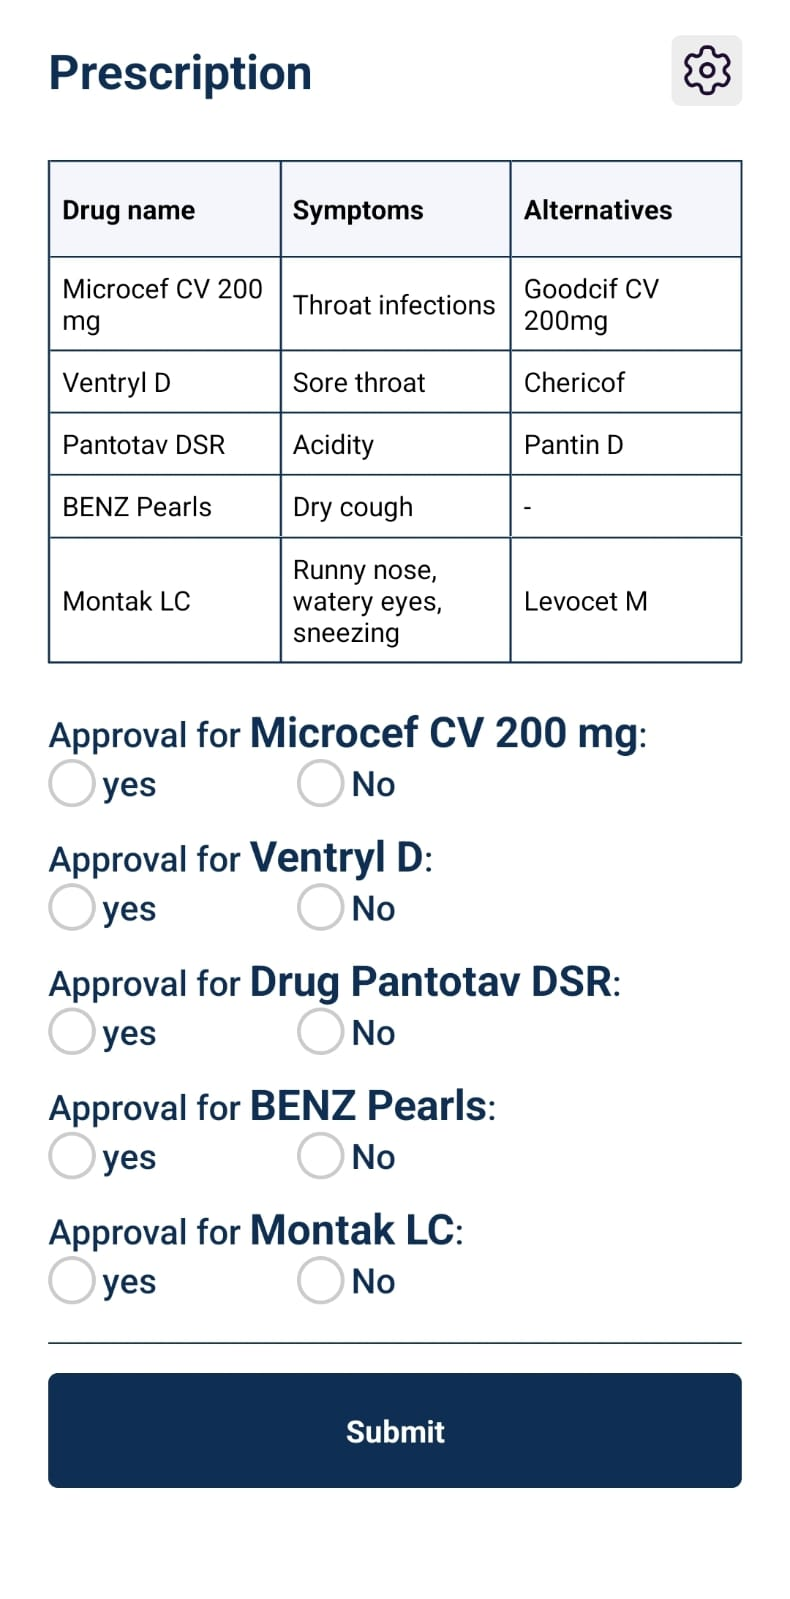
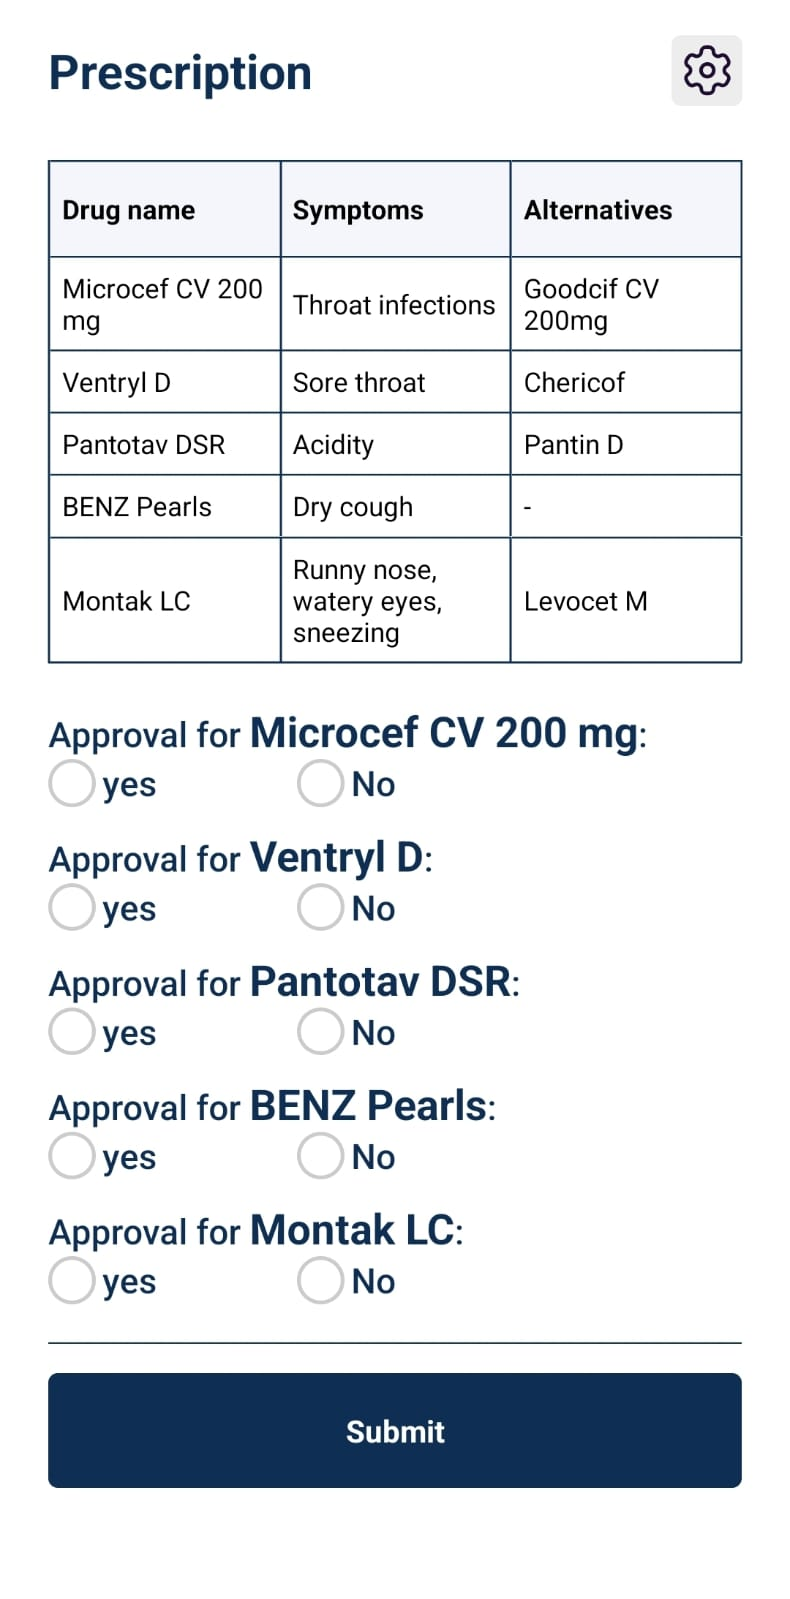
last commit for now

Changed region(s): [[0.3342, 0.5822, 0.7899, 0.6435]]

diff --git a/web/components/layout/index.js b/web/components/layout/index.js
@@ -15,7 +15,7 @@ const Layout = ({ children }) => {
     const [isContextMenuOpen, setIsContextMenuOpen] = useState(false)
 
     const isLoginPage = router.pathname === "/login"
-    const isAuth = true
+    const isAuth = false
 
     const toggleContextMenu = () => {
         setIsContextMenuOpen(!isContextMenuOpen)
@@ -73,7 +73,7 @@ const Layout = ({ children }) => {
                                 {
                                     id: "logout",
                                     label: "Logout",
-                                    action: () => handleNavigation("/logout"),
+                                    action: () => handleNavigation("/"),
                                 },
                             ]}
                             closeAction={() => closeContextMenu()}
@@ -89,7 +89,7 @@ const Layout = ({ children }) => {
                     <div className={styles.name}>
                         Crafted by {' '}
                         <a
-                            href="https://themillenniumfalcon.github.io"
+                            href="https://github.com/akaditya394"
                             rel="noopener noreferrer"
                             role="link"
                             tabIndex="0"
@@ -100,7 +100,7 @@ const Layout = ({ children }) => {
                         </a>
                         {', '}
                         <a
-                            href="https://themillenniumfalcon.github.io"
+                            href="https://github.com/NamanAgarwal214"
                             rel="noopener noreferrer"
                             role="link"
                             tabIndex="0"

diff --git a/web/components/allResults/index.js b/web/components/allResults/index.js
@@ -6,9 +6,10 @@ import VerifiedIcon from "../../images/icons/verified.svg"
 import UnverifiedIcon from "../../images/icons/hourglass.svg"
 
 const data = [
-    { id: 1, name: 'Item 1', verified: true },
-    { id: 2, name: 'Item 2', verified: false },
-    { id: 3, name: 'Item 3', verified: true },
+    { id: 1, name: 'my prescription', verified: true },
+    // { id: 2, name: 'test prescription', verified: false },
+    // { id: 3, name: 'Item 2', verified: false },
+    // { id: 4, name: 'Item 3', verified: true },
 ]
 
 const AllResultsPage = () => {

diff --git a/web/pages/login.js b/web/pages/login.js
@@ -109,7 +109,7 @@ const LoginPage = () => {
               {notice.message}
             </Notice>
           )}
-          <button type={form.submitButton.type}>
+          <button type={form.submitButton.type} onClick={() => router.push("/results")}>
             {form.submitButton.label}
           </button>
           <button type={form.button.type} onClick={handlePasswordReset}>

diff --git a/web/pages/signup.js b/web/pages/signup.js
@@ -142,7 +142,7 @@ const SignupPage = () => {
               {notice.message}
             </Notice>
           )}
-          <button type={form.submitButton.type} onClick={() => router.push("/medicalHistory")}>
+          <button type={form.submitButton.type} onClick={() => router.push("/prescriptions")}>
             {form.submitButton.label}
           </button>
         </form>

diff --git a/web/components/allPrescriptions/index.js b/web/components/allPrescriptions/index.js
@@ -4,8 +4,8 @@ import NextLink from 'next/link'
 import styles from "./styles.module.scss"
 
 const data = [
-    { id: 1, name: 'Item 1' },
-    { id: 2, name: 'Item 2' },
+    { id: 1, name: 'my prescription' },
+    { id: 2, name: 'test prescription' },
     { id: 3, name: 'Item 3' },
 ]
 

diff --git a/web/components/prescription/index.js b/web/components/prescription/index.js
@@ -34,7 +34,7 @@ const Prescription = () => {
             type: "text",
             label: "Pantotav DSR",
             required: true,
-            name: "Drug Pantotav DSR",
+            name: "Pantotav DSR",
             value: "",
             approved: "Yes",
         },

diff --git a/web/pages/index.js b/web/pages/index.js
@@ -4,8 +4,8 @@ import UploadPage from "../components/uploadPage"
 import PrescriptionsPage from "./prescriptions"
 
 const IndexPage = () => {
-  const isAuth = true
-  const isUserDoctor = true
+  const isAuth = false
+  const isUserDoctor = false
 
   let body = null
 

diff --git a/web/components/unverifiedResult/index.js b/web/components/unverifiedResult/index.js
@@ -1,5 +1,5 @@
 import styles from "./styles.module.scss"
-import TestPrescription from "../../images/test/prescription.png"
+import TestPrescription from "../../images/test/prescription.jpg"
 import Notice from "../notice"
 
 const UnverifiedResult = () => {
